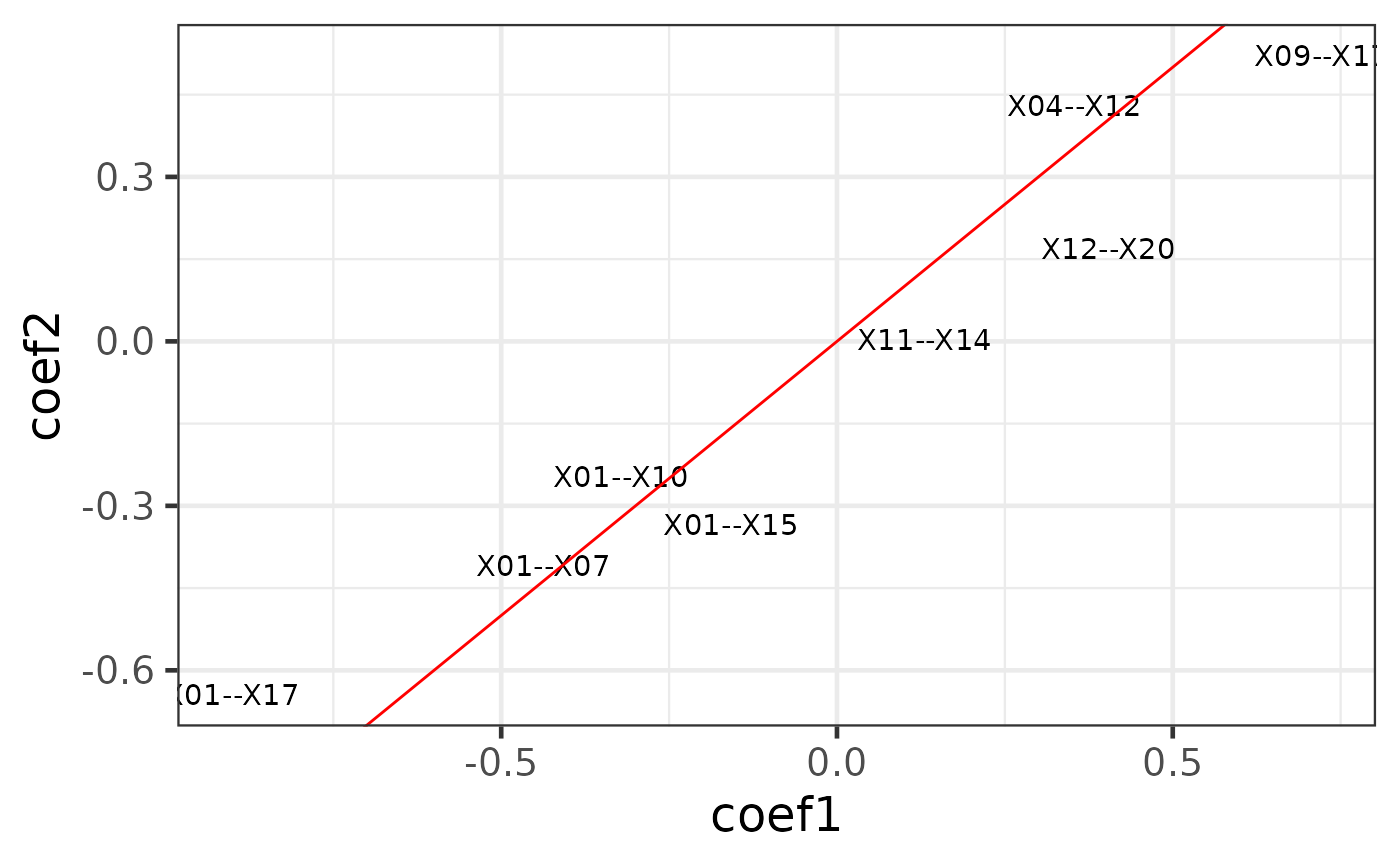
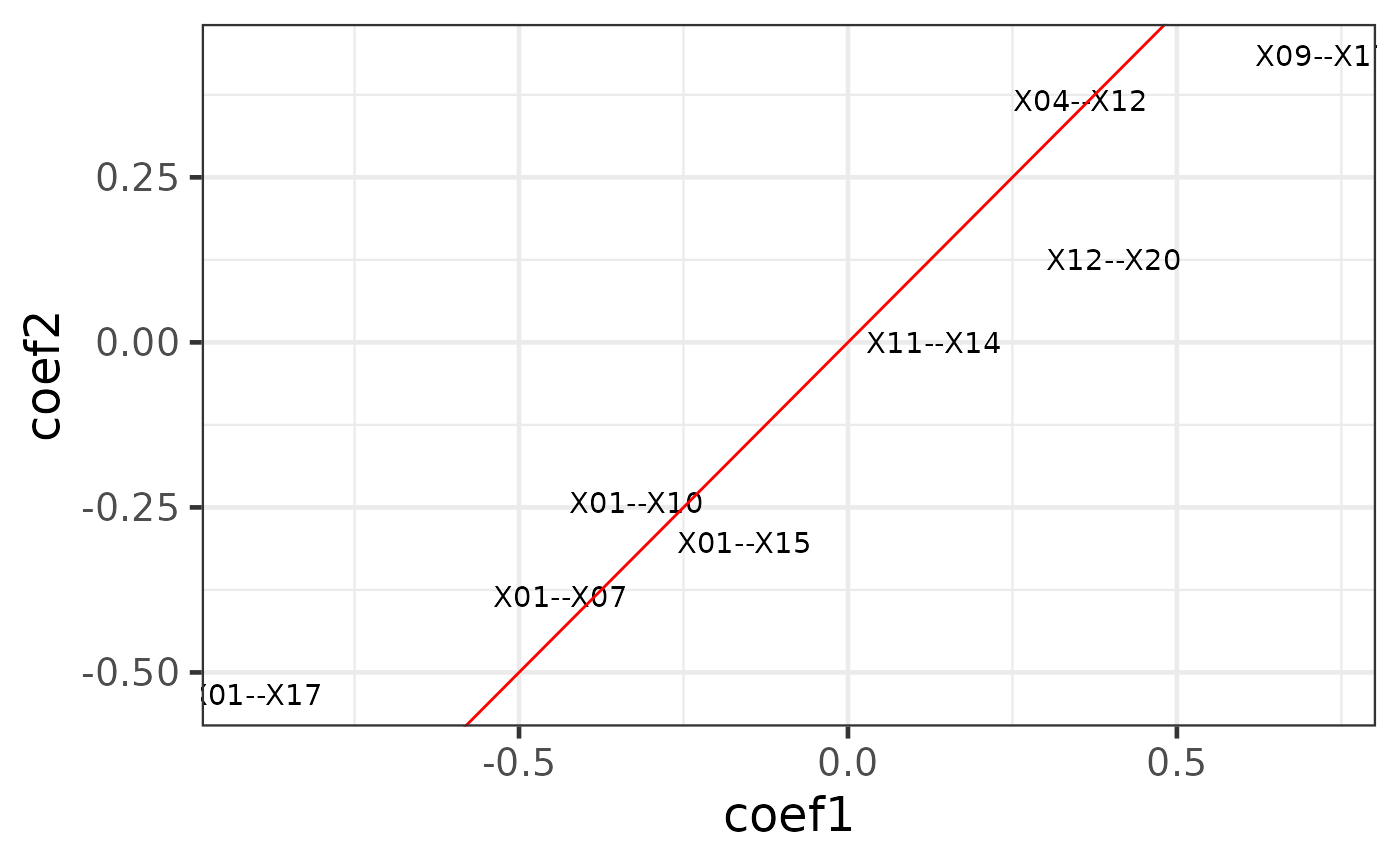
Built site for CPOP: 0.0.24@9ff9d1e

diff --git a/articles/CPOP.html b/articles/CPOP.html
@@ -168,21 +168,14 @@
 <pre><code><span class="co">## Removing sources of collinearity gives 12 features.</span></code></pre>
 <pre><code><span class="co">## 10 features was reached.</span></code></pre>
 <pre><code><span class="co">## A total of 12 features were selected.</span></code></pre>
-<pre><code><span class="co">## CPOP2 - Sign: Step 01: Number of leftover features: 9 out of 12</span></code></pre>
+<pre><code><span class="co">## CPOP2 - Sign: Step 01: Number of leftover features: 8 out of 12</span></code></pre>
 <pre><code><span class="co">## The sign matrix between the two data:</span></code></pre>
 <pre><code><span class="co">##     </span>
 <span class="co">##      -1 0 1</span>
 <span class="co">##   -1  0 0 0</span>
 <span class="co">##   0   0 0 0</span>
-<span class="co">##   1   3 0 0</span></code></pre>
+<span class="co">##   1   4 0 0</span></code></pre>
 <pre><code><span class="co">## CPOP2 - Sign: Step 02: Number of leftover features: 8 out of 12</span>
-<span class="co">## The sign matrix between the two data:</span></code></pre>
-<pre><code><span class="co">##     </span>
-<span class="co">##      -1 0 1</span>
-<span class="co">##   -1  0 0 0</span>
-<span class="co">##   0   0 0 0</span>
-<span class="co">##   1   1 0 0</span></code></pre>
-<pre><code><span class="co">## CPOP2 - Sign: Step 03: Number of leftover features: 8 out of 12</span>
 <span class="co">## The sign matrix between the two data:</span></code></pre>
 <pre><code><span class="co">##     </span>
 <span class="co">##      -1 0 1</span>
@@ -195,46 +188,46 @@
 </h3>
 <p>The output of the <code>cpop_model</code> function is a <code>cpop</code> object with its own defined methods.</p>
 <p>The main method for a <code>cpop</code> object is the <code>plot_cpop</code> function, which produces several useful plot to understand what the CPOP methodology has done or performed.</p>
-<div class="sourceCode" id="cb28"><pre class="downlit sourceCode r">
+<div class="sourceCode" id="cb26"><pre class="downlit sourceCode r">
 <code class="sourceCode R"><span class="fu"><a href="https://rdrr.io/r/base/class.html" class="external-link">class</a></span><span class="op">(</span><span class="va">cpop_result</span><span class="op">)</span></code></pre></div>
 <pre><code><span class="co">## [1] "cpop"</span></code></pre>
 <p>The first plot is using the <code>type = "text"</code> option. A labelled scatter plot shows the estimated coefficients of the selected features from data1 (i.e. <code>(x1, y1)</code>, x-axis) vs the same coefficients from data2 (i.e. <code>(x2, y2)</code>, y-axis).</p>
-<div class="sourceCode" id="cb30"><pre class="downlit sourceCode r">
+<div class="sourceCode" id="cb28"><pre class="downlit sourceCode r">
 <code class="sourceCode R"><span class="fu"><a href="../reference/plot_cpop.html">plot_cpop</a></span><span class="op">(</span>cpop_result <span class="op">=</span> <span class="va">cpop_result</span>, type <span class="op">=</span> <span class="st">"text"</span><span class="op">)</span></code></pre></div>
 <pre><code><span class="co">## $plot</span></code></pre>
 <p><img src="CPOP_files/figure-html/unnamed-chunk-5-1.png" width="700"></p>
 <pre><code><span class="co">## </span>
 <span class="co">## $data</span>
 <span class="co">## <span style="color: #949494;"># A tibble: 8 × 3</span></span>
-<span class="co">##   coef_name  coef1    coef2</span>
-<span class="co">##   <span style="color: #949494; font-style: italic;">&lt;fct&gt;</span>      <span style="color: #949494; font-style: italic;">&lt;dbl&gt;</span>    <span style="color: #949494; font-style: italic;">&lt;dbl&gt;</span></span>
-<span class="co">## <span style="color: #BCBCBC;">1</span> X01--X10  -<span style="color: #BB0000;">0.322</span> -<span style="color: #BB0000;">0.246</span>  </span>
-<span class="co">## <span style="color: #BCBCBC;">2</span> X09--X17   0.722  0.521  </span>
-<span class="co">## <span style="color: #BCBCBC;">3</span> X11--X14   0.130  0.002<span style="text-decoration: underline;">92</span></span>
-<span class="co">## <span style="color: #BCBCBC;">4</span> X12--X20   0.404  0.170  </span>
-<span class="co">## <span style="color: #BCBCBC;">5</span> X01--X07  -<span style="color: #BB0000;">0.437</span> -<span style="color: #BB0000;">0.408</span>  </span>
-<span class="co">## <span style="color: #BCBCBC;">6</span> X01--X15  -<span style="color: #BB0000;">0.158</span> -<span style="color: #BB0000;">0.334</span>  </span>
-<span class="co">## <span style="color: #BCBCBC;">7</span> X01--X17  -<span style="color: #BB0000;">0.901</span> -<span style="color: #BB0000;">0.644</span>  </span>
-<span class="co">## <span style="color: #BCBCBC;">8</span> X04--X12   0.353  0.431</span></code></pre>
+<span class="co">##   coef_name  coef1     coef2</span>
+<span class="co">##   <span style="color: #949494; font-style: italic;">&lt;fct&gt;</span>      <span style="color: #949494; font-style: italic;">&lt;dbl&gt;</span>     <span style="color: #949494; font-style: italic;">&lt;dbl&gt;</span></span>
+<span class="co">## <span style="color: #BCBCBC;">1</span> X01--X10  -<span style="color: #BB0000;">0.322</span> -<span style="color: #BB0000;">0.242</span>   </span>
+<span class="co">## <span style="color: #BCBCBC;">2</span> X09--X17   0.722  0.434   </span>
+<span class="co">## <span style="color: #BCBCBC;">3</span> X11--X14   0.130 -<span style="color: #BB0000;">0.000</span><span style="color: #BB0000; text-decoration: underline;">902</span></span>
+<span class="co">## <span style="color: #BCBCBC;">4</span> X12--X20   0.404  0.126   </span>
+<span class="co">## <span style="color: #BCBCBC;">5</span> X01--X07  -<span style="color: #BB0000;">0.437</span> -<span style="color: #BB0000;">0.385</span>   </span>
+<span class="co">## <span style="color: #BCBCBC;">6</span> X01--X15  -<span style="color: #BB0000;">0.158</span> -<span style="color: #BB0000;">0.303</span>   </span>
+<span class="co">## <span style="color: #BCBCBC;">7</span> X01--X17  -<span style="color: #BB0000;">0.901</span> -<span style="color: #BB0000;">0.534</span>   </span>
+<span class="co">## <span style="color: #BCBCBC;">8</span> X04--X12   0.353  0.367</span></code></pre>
 <p>We can see that most of the selected features had similar coefficients across the two data. This is exactly what CPOP is aiming to achieve: selecting features that are consistent within each datasets.</p>
 <p>However, each of the feature (e.g. <code>X01--X10</code>) actually corresponds to two of the original features in the raw data <code>X01</code> and <code>X10</code> in the data <code>x1</code> and <code>x2</code>. We can further visualise these features in the original features.</p>
-<div class="sourceCode" id="cb33"><pre class="downlit sourceCode r">
+<div class="sourceCode" id="cb31"><pre class="downlit sourceCode r">
 <code class="sourceCode R"><span class="fu"><a href="../reference/plot_cpop.html">plot_cpop</a></span><span class="op">(</span>cpop_result <span class="op">=</span> <span class="va">cpop_result</span>, type <span class="op">=</span> <span class="st">"ggraph"</span><span class="op">)</span></code></pre></div>
 <pre><code><span class="co">## $plot</span></code></pre>
 <p><img src="CPOP_files/figure-html/unnamed-chunk-6-1.png" width="700"></p>
 <pre><code><span class="co">## </span>
 <span class="co">## $data</span>
 <span class="co">## <span style="color: #949494;"># A tibble: 8 × 7</span></span>
-<span class="co">##   from  to     coef1    coef2 coef_avg coef_abs sign_coef1</span>
-<span class="co">##   <span style="color: #949494; font-style: italic;">&lt;chr&gt;</span> <span style="color: #949494; font-style: italic;">&lt;chr&gt;</span>  <span style="color: #949494; font-style: italic;">&lt;dbl&gt;</span>    <span style="color: #949494; font-style: italic;">&lt;dbl&gt;</span>    <span style="color: #949494; font-style: italic;">&lt;dbl&gt;</span>    <span style="color: #949494; font-style: italic;">&lt;dbl&gt;</span> <span style="color: #949494; font-style: italic;">&lt;chr&gt;</span>     </span>
-<span class="co">## <span style="color: #BCBCBC;">1</span> X01   X10   -<span style="color: #BB0000;">0.322</span> -<span style="color: #BB0000;">0.246</span>    -<span style="color: #BB0000;">0.284</span>    0.284  Negative  </span>
-<span class="co">## <span style="color: #BCBCBC;">2</span> X09   X17    0.722  0.521     0.621    0.621  Positive  </span>
-<span class="co">## <span style="color: #BCBCBC;">3</span> X11   X14    0.130  0.002<span style="text-decoration: underline;">92</span>   0.066<span style="text-decoration: underline;">6</span>   0.066<span style="text-decoration: underline;">6</span> Positive  </span>
-<span class="co">## <span style="color: #BCBCBC;">4</span> X12   X20    0.404  0.170     0.287    0.287  Positive  </span>
-<span class="co">## <span style="color: #BCBCBC;">5</span> X01   X07   -<span style="color: #BB0000;">0.437</span> -<span style="color: #BB0000;">0.408</span>    -<span style="color: #BB0000;">0.423</span>    0.423  Negative  </span>
-<span class="co">## <span style="color: #BCBCBC;">6</span> X01   X15   -<span style="color: #BB0000;">0.158</span> -<span style="color: #BB0000;">0.334</span>    -<span style="color: #BB0000;">0.246</span>    0.246  Negative  </span>
-<span class="co">## <span style="color: #BCBCBC;">7</span> X01   X17   -<span style="color: #BB0000;">0.901</span> -<span style="color: #BB0000;">0.644</span>    -<span style="color: #BB0000;">0.773</span>    0.773  Negative  </span>
-<span class="co">## <span style="color: #BCBCBC;">8</span> X04   X12    0.353  0.431     0.392    0.392  Positive</span></code></pre>
+<span class="co">##   from  to     coef1     coef2 coef_avg coef_abs sign_coef1</span>
+<span class="co">##   <span style="color: #949494; font-style: italic;">&lt;chr&gt;</span> <span style="color: #949494; font-style: italic;">&lt;chr&gt;</span>  <span style="color: #949494; font-style: italic;">&lt;dbl&gt;</span>     <span style="color: #949494; font-style: italic;">&lt;dbl&gt;</span>    <span style="color: #949494; font-style: italic;">&lt;dbl&gt;</span>    <span style="color: #949494; font-style: italic;">&lt;dbl&gt;</span> <span style="color: #949494; font-style: italic;">&lt;chr&gt;</span>     </span>
+<span class="co">## <span style="color: #BCBCBC;">1</span> X01   X10   -<span style="color: #BB0000;">0.322</span> -<span style="color: #BB0000;">0.242</span>     -<span style="color: #BB0000;">0.282</span>    0.282  Negative  </span>
+<span class="co">## <span style="color: #BCBCBC;">2</span> X09   X17    0.722  0.434      0.578    0.578  Positive  </span>
+<span class="co">## <span style="color: #BCBCBC;">3</span> X11   X14    0.130 -<span style="color: #BB0000;">0.000</span><span style="color: #BB0000; text-decoration: underline;">902</span>   0.064<span style="text-decoration: underline;">7</span>   0.064<span style="text-decoration: underline;">7</span> Positive  </span>
+<span class="co">## <span style="color: #BCBCBC;">4</span> X12   X20    0.404  0.126      0.265    0.265  Positive  </span>
+<span class="co">## <span style="color: #BCBCBC;">5</span> X01   X07   -<span style="color: #BB0000;">0.437</span> -<span style="color: #BB0000;">0.385</span>     -<span style="color: #BB0000;">0.411</span>    0.411  Negative  </span>
+<span class="co">## <span style="color: #BCBCBC;">6</span> X01   X15   -<span style="color: #BB0000;">0.158</span> -<span style="color: #BB0000;">0.303</span>     -<span style="color: #BB0000;">0.231</span>    0.231  Negative  </span>
+<span class="co">## <span style="color: #BCBCBC;">7</span> X01   X17   -<span style="color: #BB0000;">0.901</span> -<span style="color: #BB0000;">0.534</span>     -<span style="color: #BB0000;">0.717</span>    0.717  Negative  </span>
+<span class="co">## <span style="color: #BCBCBC;">8</span> X04   X12    0.353  0.367      0.360    0.360  Positive</span></code></pre>
 <p>Here we see that despite the features that we have selected in terms of the ratio, in actual fact, only a handful of features are useful. In particular, <code>X01</code>, <code>X09</code> and <code>X17</code> are the main contributors.</p>
 </div>
 <div class="section level3">
@@ -243,19 +236,19 @@
 <p>Another useful method on the <code>cpop</code> object is the <code>predict_cpop</code> function. This function takes the previous CPOP result and a new (log-)ratio matrix to produce predictions.</p>
 <p>The first column of the output are the sample IDs. The second and third column are prediction results from data1 and data2 respectively. Since we have done the previous diagnostic test that the coefficient size between the two data are very similar, we do expect that these values to be very highly correlated. The last column is <code>cpop_model_avg</code>, which is a simple average between the two predicted values.</p>
 <p>Note that the predicted values here are on the logit scale (recall that we are performing a logistic regression on binary responses using the elastic net model in the background). We can also transform these values back to predicted probability scale using the <code><a href="../reference/logit-expit.html">CPOP::expit</a></code> function.</p>
-<div class="sourceCode" id="cb36"><pre class="downlit sourceCode r">
+<div class="sourceCode" id="cb34"><pre class="downlit sourceCode r">
 <code class="sourceCode R"><span class="fu"><a href="../reference/predict_cpop.html">predict_cpop</a></span><span class="op">(</span><span class="va">cpop_result</span>, newx <span class="op">=</span> <span class="va">x3</span><span class="op">)</span> <span class="op"><a href="https://magrittr.tidyverse.org/reference/pipe.html" class="external-link">%&gt;%</a></span> <span class="fu"><a href="https://rdrr.io/r/utils/head.html" class="external-link">head</a></span><span class="op">(</span><span class="op">)</span></code></pre></div>
 <pre><code><span class="co">## <span style="color: #949494;"># A tibble: 6 × 6</span></span>
 <span class="co">##   samples cpop_model1 cpop_model2 cpop_model_avg cpop_model_avg_prob</span>
 <span class="co">##   <span style="color: #949494; font-style: italic;">&lt;chr&gt;</span>         <span style="color: #949494; font-style: italic;">&lt;dbl&gt;</span>       <span style="color: #949494; font-style: italic;">&lt;dbl&gt;</span>          <span style="color: #949494; font-style: italic;">&lt;dbl&gt;</span>               <span style="color: #949494; font-style: italic;">&lt;dbl&gt;</span></span>
-<span class="co">## <span style="color: #BCBCBC;">1</span> 1             0.465       0.151          0.308               0.576</span>
-<span class="co">## <span style="color: #BCBCBC;">2</span> 2            -<span style="color: #BB0000;">1.79</span>       -<span style="color: #BB0000;">1.06</span>          -<span style="color: #BB0000;">1.42</span>                0.200</span>
-<span class="co">## <span style="color: #BCBCBC;">3</span> 3             0.853       0.611          0.732               0.675</span>
-<span class="co">## <span style="color: #BCBCBC;">4</span> 4            -<span style="color: #BB0000;">0.936</span>      -<span style="color: #BB0000;">0.784</span>         -<span style="color: #BB0000;">0.860</span>               0.298</span>
-<span class="co">## <span style="color: #BCBCBC;">5</span> 5            -<span style="color: #BB0000;">0.424</span>      -<span style="color: #BB0000;">0.624</span>         -<span style="color: #BB0000;">0.524</span>               0.372</span>
-<span class="co">## <span style="color: #BCBCBC;">6</span> 6             1.00        1.36           1.18                0.764</span>
+<span class="co">## <span style="color: #BCBCBC;">1</span> 1             0.465      0.096<span style="text-decoration: underline;">5</span>          0.281               0.569</span>
+<span class="co">## <span style="color: #BCBCBC;">2</span> 2            -<span style="color: #BB0000;">1.79</span>      -<span style="color: #BB0000;">0.888</span>          -<span style="color: #BB0000;">1.34</span>                0.218</span>
+<span class="co">## <span style="color: #BCBCBC;">3</span> 3             0.853      0.519           0.686               0.664</span>
+<span class="co">## <span style="color: #BCBCBC;">4</span> 4            -<span style="color: #BB0000;">0.936</span>     -<span style="color: #BB0000;">0.602</span>          -<span style="color: #BB0000;">0.769</span>               0.318</span>
+<span class="co">## <span style="color: #BCBCBC;">5</span> 5            -<span style="color: #BB0000;">0.424</span>     -<span style="color: #BB0000;">0.654</span>          -<span style="color: #BB0000;">0.539</span>               0.369</span>
+<span class="co">## <span style="color: #BCBCBC;">6</span> 6             1.00       1.24            1.12                0.754</span>
 <span class="co">## <span style="color: #949494;"># … with 1 more variable: cpop_model_avg_class &lt;chr&gt;</span></span></code></pre>
-<div class="sourceCode" id="cb38"><pre class="downlit sourceCode r">
+<div class="sourceCode" id="cb36"><pre class="downlit sourceCode r">
 <code class="sourceCode R"><span class="va">predicted_plotdf</span> <span class="op">=</span> <span class="fu"><a href="../reference/predict_cpop.html">predict_cpop</a></span><span class="op">(</span><span class="va">cpop_result</span>, newx <span class="op">=</span> <span class="va">x3</span><span class="op">)</span> <span class="op"><a href="https://magrittr.tidyverse.org/reference/pipe.html" class="external-link">%&gt;%</a></span>
   <span class="fu">dplyr</span><span class="fu">::</span><span class="fu"><a href="https://dplyr.tidyverse.org/reference/mutate.html" class="external-link">mutate</a></span><span class="op">(</span>
     cpop_model1 <span class="op">=</span> <span class="fu"><a href="../reference/logit-expit.html">expit</a></span><span class="op">(</span><span class="va">cpop_model1</span><span class="op">)</span>, 

diff --git a/reference/penalties.html b/reference/penalties.html
@@ -63,7 +63,9 @@ Compute t-stat absolute difference penalty"><!-- mathjax --><script src="https:/
 
 <span class="fu">p_transform</span><span class="op">(</span><span class="va">penalty</span><span class="op">)</span>
 
-<span class="fu">tstat_penalty</span><span class="op">(</span><span class="va">x1</span>, <span class="va">x2</span>, <span class="va">y1</span>, <span class="va">y2</span><span class="op">)</span></code></pre></div>
+<span class="fu">tstat_penalty</span><span class="op">(</span><span class="va">x1</span>, <span class="va">x2</span>, <span class="va">y1</span>, <span class="va">y2</span><span class="op">)</span>
+
+<span class="fu">ks_penalty</span><span class="op">(</span><span class="va">x1</span>, <span class="va">x2</span>, statistic <span class="op">=</span> <span class="cn">TRUE</span><span class="op">)</span></code></pre></div>
     </div>
 
     <div id="arguments">
@@ -79,31 +81,41 @@ where the sum is set to the length of the vector</p></dd>
 <dd><p>A factor response corresponding to the columns of x1</p></dd>
 <dt>y2</dt>
 <dd><p>A factor response corresponding to the columns of x2</p></dd>
+<dt>statistic</dt>
+<dd><p>Should the KS-test statistic be returned (default) or the p-value should be
+returned. Logical.</p></dd>
 </dl></div>
     <div id="value">
     <h2>Value</h2>
     <p>A vector
-A vector</p>
+A vector
+A vector of length matching that of x1 and x2</p>
     </div>
 
     <div id="ref-examples">
     <h2>Examples</h2>
-    <div class="sourceCode"><pre class="sourceCode r"><code><span class="r-in"><span class="va">n</span> <span class="op">=</span> <span class="fl">10</span></span>
-<span class="r-in"><span class="va">p</span> <span class="op">=</span> <span class="fl">10</span></span>
+    <div class="sourceCode"><pre class="sourceCode r"><code><span class="r-in"><span class="va">n</span> <span class="op">=</span> <span class="fl">20</span></span>
+<span class="r-in"><span class="va">p</span> <span class="op">=</span> <span class="fl">5</span></span>
 <span class="r-in"><span class="va">x1</span> <span class="op">=</span> <span class="fu"><a href="https://rdrr.io/r/base/matrix.html" class="external-link">matrix</a></span><span class="op">(</span><span class="fu"><a href="https://rdrr.io/r/stats/Normal.html" class="external-link">rnorm</a></span><span class="op">(</span><span class="va">n</span> <span class="op">*</span> <span class="va">p</span>, mean <span class="op">=</span> <span class="fl">0</span>, sd <span class="op">=</span> <span class="fl">1</span><span class="op">)</span>, nrow <span class="op">=</span> <span class="va">n</span>, ncol <span class="op">=</span> <span class="va">p</span><span class="op">)</span></span>
 <span class="r-in"><span class="va">x2</span> <span class="op">=</span> <span class="fu"><a href="https://rdrr.io/r/base/matrix.html" class="external-link">matrix</a></span><span class="op">(</span><span class="fu"><a href="https://rdrr.io/r/stats/Normal.html" class="external-link">rnorm</a></span><span class="op">(</span><span class="va">n</span> <span class="op">*</span> <span class="va">p</span>, mean <span class="op">=</span> <span class="fl">1</span>, sd <span class="op">=</span> <span class="fl">1</span><span class="op">)</span>, nrow <span class="op">=</span> <span class="va">n</span>, ncol <span class="op">=</span> <span class="va">p</span><span class="op">)</span></span>
 <span class="r-in"><span class="fu">colmeans_penalty</span><span class="op">(</span><span class="va">x1</span>, <span class="va">x2</span><span class="op">)</span></span>
-<span class="r-out co"><span class="r-pr">#&gt;</span>  [1] 0.8236404 1.2599340 1.3849807 1.7834853 0.6810144 0.6335384 0.6399791</span>
-<span class="r-out co"><span class="r-pr">#&gt;</span>  [8] 0.2126798 1.0025180 1.5782300</span>
-<span class="r-in"><span class="va">n</span> <span class="op">=</span> <span class="fl">10</span></span>
-<span class="r-in"><span class="va">p</span> <span class="op">=</span> <span class="fl">10</span></span>
+<span class="r-out co"><span class="r-pr">#&gt;</span> [1] 1.0417872 1.5842330 0.6572764 0.4263294 1.2903740</span>
+<span class="r-in"><span class="va">n</span> <span class="op">=</span> <span class="fl">20</span></span>
+<span class="r-in"><span class="va">p</span> <span class="op">=</span> <span class="fl">5</span></span>
 <span class="r-in"><span class="va">x1</span> <span class="op">=</span> <span class="fu"><a href="https://rdrr.io/r/base/matrix.html" class="external-link">matrix</a></span><span class="op">(</span><span class="fu"><a href="https://rdrr.io/r/stats/Normal.html" class="external-link">rnorm</a></span><span class="op">(</span><span class="va">n</span> <span class="op">*</span> <span class="va">p</span>, mean <span class="op">=</span> <span class="fl">0</span>, sd <span class="op">=</span> <span class="fl">1</span><span class="op">)</span>, nrow <span class="op">=</span> <span class="va">n</span>, ncol <span class="op">=</span> <span class="va">p</span><span class="op">)</span></span>
 <span class="r-in"><span class="va">y1</span> <span class="op">=</span> <span class="fu"><a href="https://rdrr.io/r/base/factor.html" class="external-link">factor</a></span><span class="op">(</span><span class="fu"><a href="https://rdrr.io/r/stats/Binomial.html" class="external-link">rbinom</a></span><span class="op">(</span><span class="va">n</span>, <span class="fl">1</span>, prob <span class="op">=</span> <span class="fl">0.5</span><span class="op">)</span>, levels <span class="op">=</span> <span class="fu"><a href="https://rdrr.io/r/base/c.html" class="external-link">c</a></span><span class="op">(</span><span class="st">"0"</span>, <span class="st">"1"</span><span class="op">)</span><span class="op">)</span></span>
 <span class="r-in"><span class="va">x2</span> <span class="op">=</span> <span class="fu"><a href="https://rdrr.io/r/base/matrix.html" class="external-link">matrix</a></span><span class="op">(</span><span class="fu"><a href="https://rdrr.io/r/stats/Normal.html" class="external-link">rnorm</a></span><span class="op">(</span><span class="va">n</span> <span class="op">*</span> <span class="va">p</span>, mean <span class="op">=</span> <span class="fl">1</span>, sd <span class="op">=</span> <span class="fl">1</span><span class="op">)</span>, nrow <span class="op">=</span> <span class="va">n</span>, ncol <span class="op">=</span> <span class="va">p</span><span class="op">)</span></span>
 <span class="r-in"><span class="va">y2</span> <span class="op">=</span> <span class="fu"><a href="https://rdrr.io/r/base/factor.html" class="external-link">factor</a></span><span class="op">(</span><span class="fu"><a href="https://rdrr.io/r/stats/Binomial.html" class="external-link">rbinom</a></span><span class="op">(</span><span class="va">n</span>, <span class="fl">1</span>, prob <span class="op">=</span> <span class="fl">0.5</span><span class="op">)</span>, levels <span class="op">=</span> <span class="fu"><a href="https://rdrr.io/r/base/c.html" class="external-link">c</a></span><span class="op">(</span><span class="st">"0"</span>, <span class="st">"1"</span><span class="op">)</span><span class="op">)</span></span>
 <span class="r-in"><span class="fu">tstat_penalty</span><span class="op">(</span>x1 <span class="op">=</span> <span class="va">x1</span>, x2 <span class="op">=</span> <span class="va">x2</span>, y1 <span class="op">=</span> <span class="va">y1</span>, y2 <span class="op">=</span> <span class="va">y2</span><span class="op">)</span></span>
-<span class="r-out co"><span class="r-pr">#&gt;</span>  [1] 1.0477230 1.4307539 0.4106593 0.1466568 0.7676688 0.9818633 0.8596887</span>
-<span class="r-out co"><span class="r-pr">#&gt;</span>  [8] 2.2778327 1.0326975 1.0444560</span>
+<span class="r-out co"><span class="r-pr">#&gt;</span> [1] 1.53175612 0.04074133 0.47832180 1.59416583 1.35501492</span>
+<span class="r-in"><span class="va">n</span> <span class="op">=</span> <span class="fl">20</span></span>
+<span class="r-in"><span class="va">p</span> <span class="op">=</span> <span class="fl">5</span></span>
+<span class="r-in"><span class="va">x1</span> <span class="op">=</span> <span class="fu"><a href="https://rdrr.io/r/base/matrix.html" class="external-link">matrix</a></span><span class="op">(</span><span class="fu"><a href="https://rdrr.io/r/stats/Normal.html" class="external-link">rnorm</a></span><span class="op">(</span><span class="va">n</span> <span class="op">*</span> <span class="va">p</span>, mean <span class="op">=</span> <span class="fl">0</span>, sd <span class="op">=</span> <span class="fl">1</span><span class="op">)</span>, nrow <span class="op">=</span> <span class="va">n</span>, ncol <span class="op">=</span> <span class="va">p</span><span class="op">)</span></span>
+<span class="r-in"><span class="va">y1</span> <span class="op">=</span> <span class="fu"><a href="https://rdrr.io/r/base/factor.html" class="external-link">factor</a></span><span class="op">(</span><span class="fu"><a href="https://rdrr.io/r/stats/Binomial.html" class="external-link">rbinom</a></span><span class="op">(</span><span class="va">n</span>, <span class="fl">1</span>, prob <span class="op">=</span> <span class="fl">0.5</span><span class="op">)</span>, levels <span class="op">=</span> <span class="fu"><a href="https://rdrr.io/r/base/c.html" class="external-link">c</a></span><span class="op">(</span><span class="st">"0"</span>, <span class="st">"1"</span><span class="op">)</span><span class="op">)</span></span>
+<span class="r-in"><span class="va">x2</span> <span class="op">=</span> <span class="fu"><a href="https://rdrr.io/r/base/matrix.html" class="external-link">matrix</a></span><span class="op">(</span><span class="fu"><a href="https://rdrr.io/r/stats/Normal.html" class="external-link">rnorm</a></span><span class="op">(</span><span class="va">n</span> <span class="op">*</span> <span class="va">p</span>, mean <span class="op">=</span> <span class="fl">1</span>, sd <span class="op">=</span> <span class="fl">1</span><span class="op">)</span>, nrow <span class="op">=</span> <span class="va">n</span>, ncol <span class="op">=</span> <span class="va">p</span><span class="op">)</span></span>
+<span class="r-in"><span class="va">y2</span> <span class="op">=</span> <span class="fu"><a href="https://rdrr.io/r/base/factor.html" class="external-link">factor</a></span><span class="op">(</span><span class="fu"><a href="https://rdrr.io/r/stats/Binomial.html" class="external-link">rbinom</a></span><span class="op">(</span><span class="va">n</span>, <span class="fl">1</span>, prob <span class="op">=</span> <span class="fl">0.5</span><span class="op">)</span>, levels <span class="op">=</span> <span class="fu"><a href="https://rdrr.io/r/base/c.html" class="external-link">c</a></span><span class="op">(</span><span class="st">"0"</span>, <span class="st">"1"</span><span class="op">)</span><span class="op">)</span></span>
+<span class="r-in"><span class="fu">ks_penalty</span><span class="op">(</span>x1 <span class="op">=</span> <span class="va">x1</span>, x2 <span class="op">=</span> <span class="va">x2</span><span class="op">)</span></span>
+<span class="r-out co"><span class="r-pr">#&gt;</span> [1] 0.55 0.25 0.70 0.35 0.55</span>
 </code></pre></div>
     </div>
   </div>

diff --git a/reference/cpop_network.html b/reference/cpop_network.html
@@ -84,9 +84,9 @@ using the `ggraph` package.</p></li>
 <span class="r-in"><span class="fu">plot_lratio_network</span><span class="op">(</span><span class="va">x</span>, type <span class="op">=</span> <span class="st">"ggraph"</span><span class="op">)</span></span>
 <span class="r-plt img"><img src="cpop_network-1.png" alt="" width="700" height="433"></span>
 <span class="r-in"><span class="fu">plot_lratio_network</span><span class="op">(</span><span class="va">x</span>, type <span class="op">=</span> <span class="st">"igraph"</span><span class="op">)</span></span>
-<span class="r-out co"><span class="r-pr">#&gt;</span> IGRAPH 818568b UN-- 10 9 -- </span>
+<span class="r-out co"><span class="r-pr">#&gt;</span> IGRAPH d51a5d5 UN-- 10 9 -- </span>
 <span class="r-out co"><span class="r-pr">#&gt;</span> + attr: name (v/c)</span>
-<span class="r-out co"><span class="r-pr">#&gt;</span> + edges from 818568b (vertex names):</span>
+<span class="r-out co"><span class="r-pr">#&gt;</span> + edges from d51a5d5 (vertex names):</span>
 <span class="r-out co"><span class="r-pr">#&gt;</span> [1] X1 --X10 X1 --X3  X1 --X4  X1 --X8  X1 --X9  X2 --X5  X2 --X7  X2 --X6 </span>
 <span class="r-out co"><span class="r-pr">#&gt;</span> [9] X10--X8 </span>
 <span class="r-in"><span class="fu">plot_lratio_network</span><span class="op">(</span><span class="va">x</span>, type <span class="op">=</span> <span class="st">"visNetwork"</span><span class="op">)</span></span>

diff --git a/reference/index.html b/reference/index.html
@@ -107,7 +107,7 @@
         </td>
         <td><p>Compute pairwise difference between matrix columns</p></td>
       </tr><tr><td>
-          <p><code><a href="penalties.html">colmeans_penalty()</a></code> <code><a href="penalties.html">p_transform()</a></code> <code><a href="penalties.html">tstat_penalty()</a></code> </p>
+          <p><code><a href="penalties.html">colmeans_penalty()</a></code> <code><a href="penalties.html">p_transform()</a></code> <code><a href="penalties.html">tstat_penalty()</a></code> <code><a href="penalties.html">ks_penalty()</a></code> </p>
         </td>
         <td><p>Compute feature-wise absolute difference penalty</p></td>
       </tr><tr><td>
